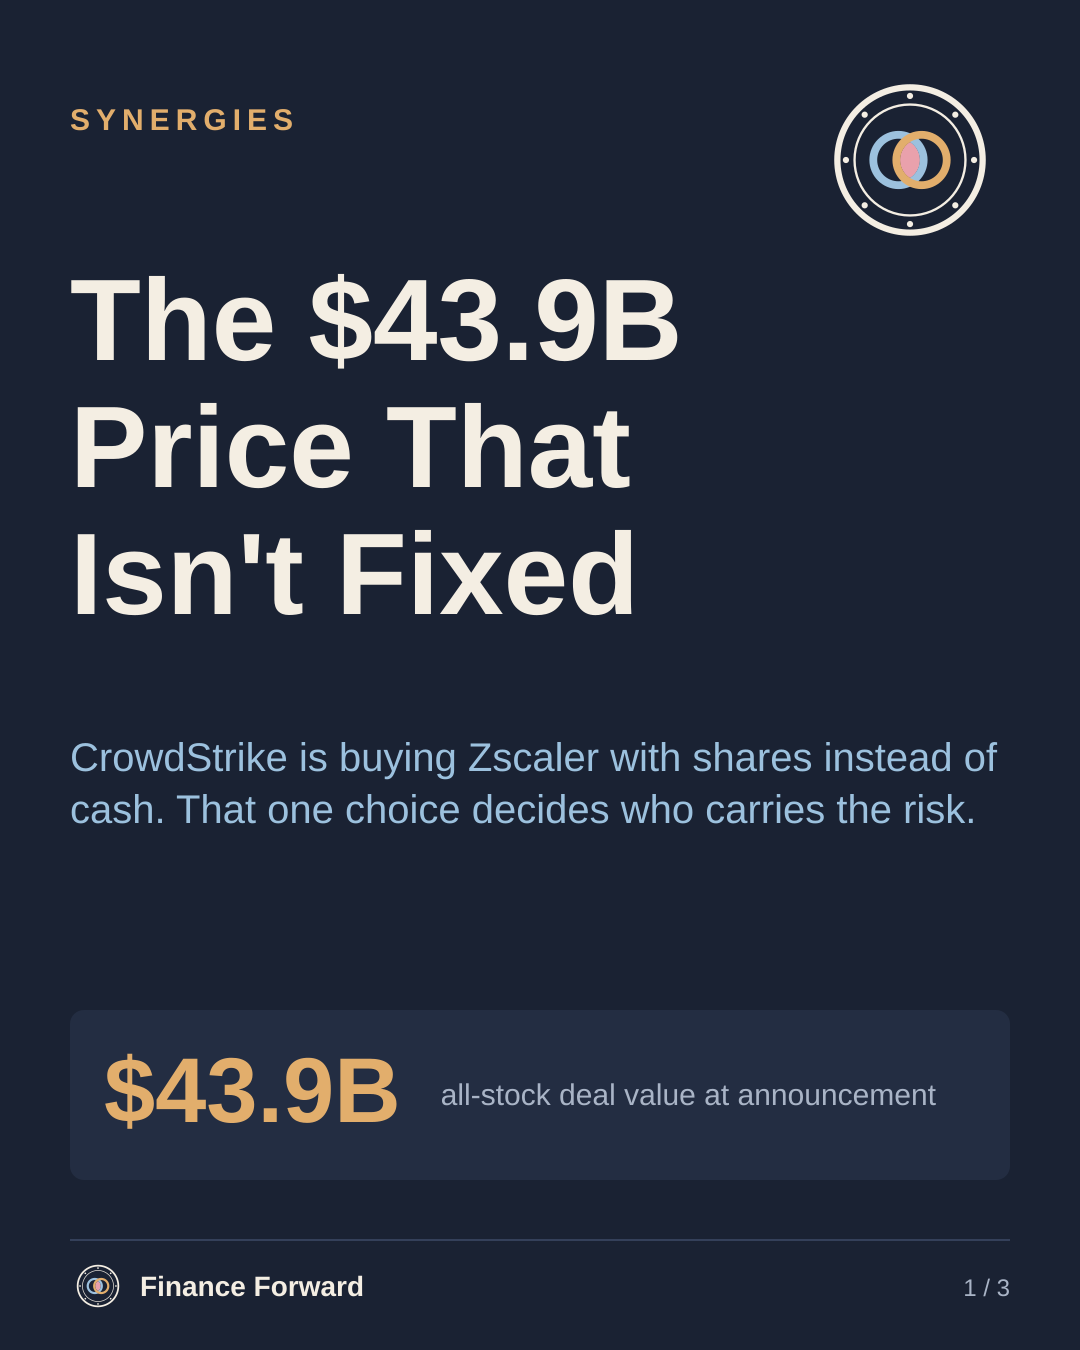
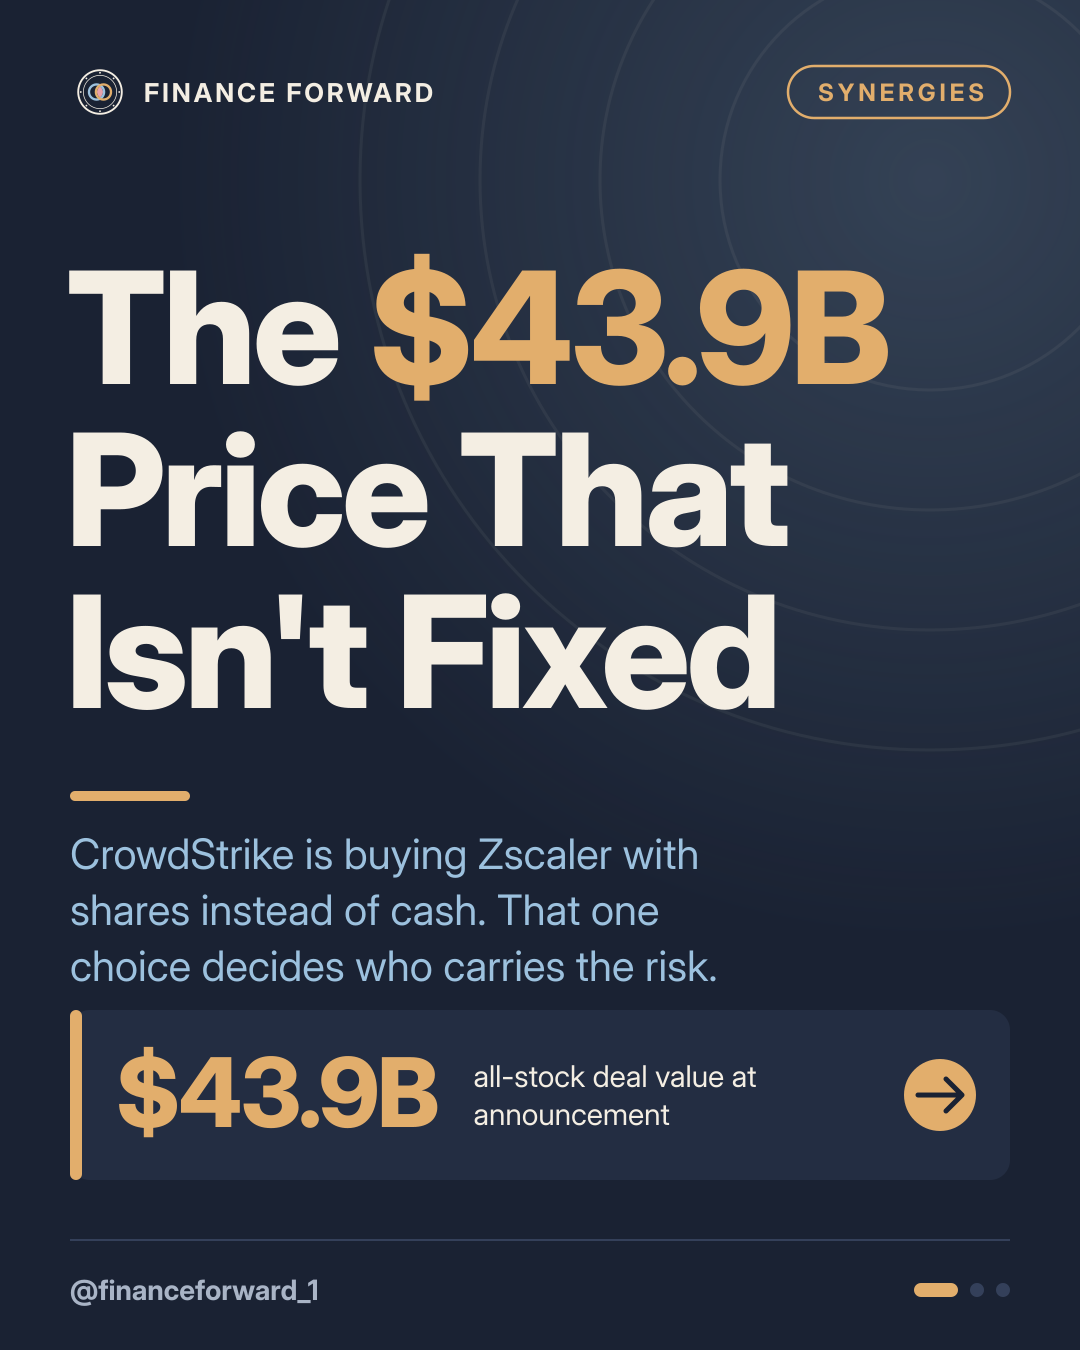
Add v2 carousel design and rebuild the CrowdStrike/Zscaler slides with it

diff --git a/finance-forward-ig/build_carousel_v2.py b/finance-forward-ig/build_carousel_v2.py
@@ -1,0 +1,144 @@
+#!/usr/bin/env python3
+"""Finance Forward Instagram carousel builder, v2 design.
+Usage: python3 build_carousel_v2.py piece.json outdir
+Same piece.json keys as build_carousel.py:
+  k  column kicker in caps, e.g. "THE WATCHLIST"
+  t  headline as a list of 2-3 short lines (words containing a digit are highlighted)
+  d  one-sentence dek
+  n  EITHER three [number, label] pairs (first is the hero stat) ...
+  l  ... OR a list of 3-7 short items, with lk = kicker for that slide
+  v  the author's view, at most 30 words
+  vk optional kicker for slide 3 (default "MY VIEW")
+Writes 1.png, 2.png, 3.png (1080x1350) into outdir.
+Uses Inter Display when installed, otherwise falls back to Liberation Sans / Arial / DejaVu.
+"""
+import json, math, subprocess, sys, glob, os, re
+from PIL import ImageFont
+
+_FILES = (glob.glob("/usr/share/fonts/**/*.otf", recursive=True) + glob.glob("/usr/share/fonts/**/*.ttf", recursive=True)
+          + glob.glob("/Library/Fonts/*.ttf") + glob.glob("/System/Library/Fonts/Supplemental/*.ttf"))
+def _find(*names):
+    for n in names:
+        for f in _FILES:
+            if os.path.basename(f).split(".")[0] == n: return f
+    return None
+if _find("InterDisplay-ExtraBold") and _find("InterDisplay-Bold") and _find("InterDisplay-Regular"):
+    FAMILY = "Inter Display"
+    FONT = {400: _find("InterDisplay-Regular"), 700: _find("InterDisplay-Bold"), 800: _find("InterDisplay-ExtraBold")}
+else:
+    FAMILY = "Arial, Liberation Sans, Helvetica, DejaVu Sans, sans-serif"
+    reg = _find("LiberationSans-Regular", "Arial", "DejaVuSans"); bold = _find("LiberationSans-Bold", "Arial Bold", "DejaVuSans-Bold")
+    if not (reg and bold): raise SystemExit("No usable font found; install fonts-inter or fonts-liberation")
+    FONT = {400: reg, 700: bold, 800: bold}
+
+def tw(t, s, w=400, ls=0): return ImageFont.truetype(FONT[w], s).getlength(t) + ls * len(t)
+def wrap(t, s, mw, w=400):
+    o, c = [], ""
+    for word in t.split():
+        n = (c + " " + word).strip()
+        if tw(n, s, w) > mw and c: o.append(c); c = word
+        else: c = n
+    if c: o.append(c)
+    return o
+
+NAVY, PANEL, CARD, CREAM, BLUE, GOLD, PINK, GREY, RULE = "#1A2233", "#232D42", "#2B3650", "#F4EEE3", "#9CC1DE", "#E2AE6C", "#E9A1AC", "#A9B4C6", "#34405A"
+W, H = 1080, 1350
+HANDLE = "@financeforward_1"
+esc = lambda t: t.replace("&", "&amp;").replace("<", "&lt;")
+
+def T(x, y, s, fill, t, w=400, extra=""):
+    return f'<text x="{x}" y="{y}" font-size="{s}" font-weight="{w}" fill="{fill}"{extra}>{esc(t)}</text>'
+def logo(x, y, size, i):
+    s = size / 512
+    dots = "".join(f'<circle cx="{256+164*math.cos(math.radians(a)):.1f}" cy="{256+164*math.sin(math.radians(a)):.1f}" r="8" fill="{CREAM}"/>' for a in range(0, 360, 45))
+    return (f'<g transform="translate({x},{y}) scale({s})"><defs><clipPath id="l{i}"><circle cx="226.5" cy="256" r="55"/></clipPath></defs>'
+            f'<circle cx="256" cy="256" r="186" fill="none" stroke="{CREAM}" stroke-width="16"/><circle cx="256" cy="256" r="142" fill="none" stroke="{CREAM}" stroke-width="6"/>{dots}'
+            f'<circle cx="285.5" cy="256" r="55" fill="{PINK}" clip-path="url(#l{i})"/><circle cx="226.5" cy="256" r="64.5" fill="none" stroke="{BLUE}" stroke-width="20"/>'
+            f'<circle cx="285.5" cy="256" r="64.5" fill="none" stroke="{GOLD}" stroke-width="20"/></g>')
+def backdrop(cx, cy):
+    rings = "".join(f'<circle cx="{cx}" cy="{cy}" r="{r}" fill="none" stroke="{CREAM}" stroke-opacity="0.055" stroke-width="3"/>' for r in (210, 330, 450, 570))
+    return (f'<defs><radialGradient id="glow" cx="{cx}" cy="{cy}" r="760" gradientUnits="userSpaceOnUse">'
+            f'<stop offset="0" stop-color="{BLUE}" stop-opacity="0.20"/><stop offset="1" stop-color="{BLUE}" stop-opacity="0"/></radialGradient></defs>'
+            f'<rect width="{W}" height="{H}" fill="{NAVY}"/><rect width="{W}" height="{H}" fill="url(#glow)"/>{rings}')
+def head(kicker):
+    """Top bar: brand on the left, column pill on the right."""
+    pw = tw(kicker, 24, 700, 4) + 52
+    return (logo(70, 62, 60, "h") + T(144, 102, 26, CREAM, "FINANCE FORWARD", 700, ' letter-spacing="3"')
+            + f'<rect x="{1010-pw:.0f}" y="66" width="{pw:.0f}" height="52" rx="26" fill="none" stroke="{GOLD}" stroke-width="2.5"/>'
+            + T(1010 - pw / 2 + 2, 101, 24, GOLD, kicker, 700, ' letter-spacing="4" text-anchor="middle"'))
+def foot(n):
+    dots, x = "", 1010
+    for i in (3, 2, 1):
+        w = 44 if i == n else 14; x -= w
+        dots += f'<rect x="{x}" y="1283" width="{w}" height="14" rx="7" fill="{GOLD if i == n else RULE}"/>'; x -= 12
+    return f'<line x1="70" y1="1240" x2="1010" y2="1240" stroke="{RULE}" stroke-width="2"/>' + T(70, 1300, 28, GREY, HANDLE, 700) + dots
+def svg(body, cx=930, cy=180):
+    return f'<svg font-family="{FAMILY}" xmlns="http://www.w3.org/2000/svg" width="{W}" height="{H}" viewBox="0 0 {W} {H}">{backdrop(cx, cy)}{body}</svg>'
+def arrow(x, y, c, s=1.0):
+    return f'<g transform="translate({x},{y}) scale({s})" fill="none" stroke="{c}" stroke-width="5" stroke-linecap="round" stroke-linejoin="round"><path d="M0 0H44M28 -16L44 0L28 16"/></g>'
+
+def build(p, out):
+    os.makedirs(out, exist_ok=True)
+    # ---------- slide 1: cover ----------
+    fs = 156
+    while max(tw(l, fs, 800, -fs * 0.025) for l in p["t"]) > 940: fs -= 4
+    b = head(p["k"]); y = 250 + int(fs * 0.86)
+    for l in p["t"]:
+        spans = "".join(f'<tspan fill="{GOLD if re.search(r"[0-9]", w_) else CREAM}">{esc(w_)} </tspan>' for w_ in l.split())
+        b += f'<text x="66" y="{y}" font-size="{fs}" font-weight="800" letter-spacing="{-fs*0.025:.1f}" xml:space="preserve">{spans}</text>'
+        y += int(fs * 1.04)
+    y += 6 - int(fs * 0.55)
+    b += f'<rect x="70" y="{y}" width="120" height="10" rx="5" fill="{GOLD}"/>'; y += 78
+    dw = 940; dl = wrap(p["d"], 42, dw)
+    while dw > 600 and len(wrap(p["d"], 42, dw - 20)) == len(dl): dw -= 20  # balance lines, no orphan word
+    for l in wrap(p["d"], 42, dw)[:4]: b += T(70, y, 42, BLUE, l); y += 56
+    if "n" in p:
+        num, lab = p["n"][0]
+        b += f'<rect x="70" y="1010" width="940" height="170" rx="20" fill="{PANEL}"/><rect x="70" y="1010" width="12" height="170" rx="6" fill="{GOLD}"/>'
+        b += T(116, 1127, 96, GOLD, num, 800, ' letter-spacing="-2"')
+        lx = 116 + tw(num, 96, 800, -2) + 36; ll = wrap(lab, 30, 880 - lx)[:3]; y0 = 1106 - (len(ll) - 1) * 19
+        for j, l in enumerate(ll): b += T(lx, y0 + j * 38, 30, CREAM, l)
+        b += f'<circle cx="940" cy="1095" r="36" fill="{GOLD}"/>' + arrow(918, 1095, NAVY)
+    else:
+        b += f'<rect x="70" y="1050" width="470" height="100" rx="50" fill="{GOLD}"/>' + T(116, 1113, 36, NAVY, "Swipe to see them", 700) + arrow(456, 1100, NAVY, 0.8)
+    s1 = svg(b + foot(1))
+    # ---------- slide 2: numbers or list ----------
+    if "n" in p:
+        b = head("BY THE NUMBERS")
+        for j, (num, lab) in enumerate(p["n"][:3]):
+            y = 190 + j * 340; c = (GOLD, BLUE, PINK)[j]
+            b += f'<rect x="70" y="{y}" width="940" height="310" rx="20" fill="{CARD}"/><rect x="70" y="{y}" width="12" height="310" rx="6" fill="{c}"/>'
+            b += T(962, y + 66, 28, GREY, f"0{j+1}", 700, ' text-anchor="end" letter-spacing="2"')
+            ns = 140
+            while tw(num, ns, 800, -3) > 760: ns -= 6
+            b += T(116, y + 168, ns, c, num, 800, ' letter-spacing="-3"')
+            for q, l in enumerate(wrap(lab, 36, 840)[:2]): b += T(118, y + 230 + q * 46, 36, CREAM, l)
+    else:
+        b = head(p["lk"]); n = len(p["l"]); rh = min(180, int(1030 / n))
+        for j, l in enumerate(p["l"]):
+            y = 180 + j * rh; c = (GOLD, BLUE, PINK)[j % 3]; mid = y + (rh - 18) / 2
+            b += f'<rect x="70" y="{y}" width="940" height="{rh-18}" rx="18" fill="{CARD}"/><rect x="70" y="{y}" width="12" height="{rh-18}" rx="6" fill="{c}"/>'
+            b += T(116, mid + 22, 62, c, str(j + 1), 800)
+            ls_ = wrap(l, 38, 780, 700)[:2]; yy = mid + 14 - (len(ls_) - 1) * 23
+            for q, x in enumerate(ls_): b += T(196, yy + q * 46, 38, CREAM, x, 700)
+    s2 = svg(b + foot(2), 150, 1250)
+    # ---------- slide 3: view and call to action ----------
+    b = head(p.get("vk", "MY VIEW"))
+    b += T(58, 400, 300, GOLD, "“", 800)
+    vs = 62; lines = wrap(p["v"], vs, 940, 700)
+    while len(lines) > 6 and vs > 44: vs -= 4; lines = wrap(p["v"], vs, 940, 700)
+    y = 390
+    for l in lines[:8]: b += T(70, y, vs, CREAM, l, 700, ' letter-spacing="-0.5"'); y += int(vs * 1.3)
+    y += 10
+    b += f'<rect x="70" y="{y}" width="64" height="6" rx="3" fill="{GOLD}"/>' + T(152, y + 14, 30, BLUE, "Abhi Prakash, Finance Forward", 700)
+    b += T(70, 985, 30, CREAM, f"Save this for later. Follow {HANDLE} for more.")
+    b += f'<rect x="70" y="1020" width="940" height="116" rx="58" fill="{GOLD}"/>' + T(122, 1092, 40, NAVY, "Read the full piece: link in bio", 800) + arrow(910, 1078, NAVY)
+    if "n" in p: b += T(70, 1186, 22, GREY, "A view about the deal, not a forecast or a recommendation.")
+    b += T(70, 1216, 22, GREY, "Educational only, not investment advice.")
+    s3 = svg(b + foot(3), 930, 180)
+    for i, s in enumerate((s1, s2, s3), 1):
+        sp = os.path.join(out, f"{i}.svg"); open(sp, "w").write(s)
+        subprocess.run(["rsvg-convert", sp, "-o", os.path.join(out, f"{i}.png")], check=True); os.remove(sp)
+
+if __name__ == "__main__":
+    build(json.load(open(sys.argv[1])), sys.argv[2])
